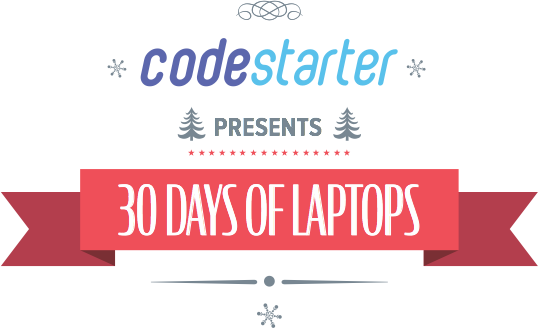
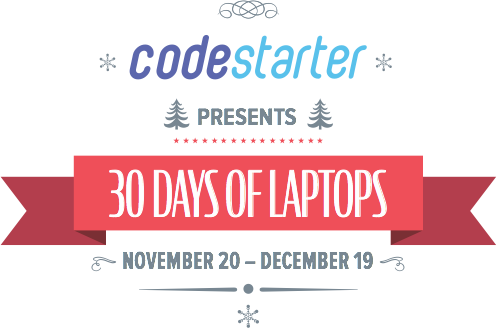
small fix

Changed region(s): [[0.0, 0.3049, 1.0, 1.0], [0.1811, 0.0915, 0.7847, 0.2744], [0.4225, 0.0, 0.5734, 0.061]]

diff --git a/css/main.css b/css/main.css
@@ -10,12 +10,12 @@ body {
 }
 
 #intro {
-  background: url("../img/winter-bg.png") no-repeat 0 0;
+  background: url("../img/winter-bg.png") no-repeat 0 center;
   -webkit-background-size: cover;
   -moz-background-size: cover;
   -o-background-size: cover;
   background-size: cover;
-  height: 768px;
+  height: 555px;
 }
 
 #intro img {
@@ -24,7 +24,7 @@ body {
 
 #intro p {
   margin: 0 auto;
-  padding-top: 190px;
+  padding-top: 30px;
   max-width: 465px;
   font-size: 21px;
   color: rgba(0,0,0,0.72);

diff --git a/index.html b/index.html
@@ -98,6 +98,12 @@
     </div>
 
     <div id="kids"></div>
+
+    <div class="container">
+      <p>The only way our #30DaysofLaptops will work, is if you pass this challenge on to another company within 24 hours and keep our game of tag going. Let’s use these next 30 days to get laptops to as many hopeful and excited kids as possible! </p>
+    </div>
+  </div>
+
   </div>
 
 
